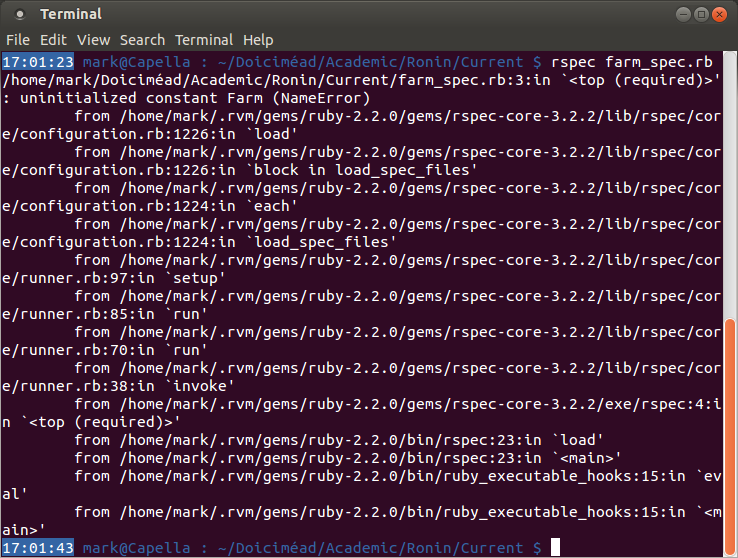
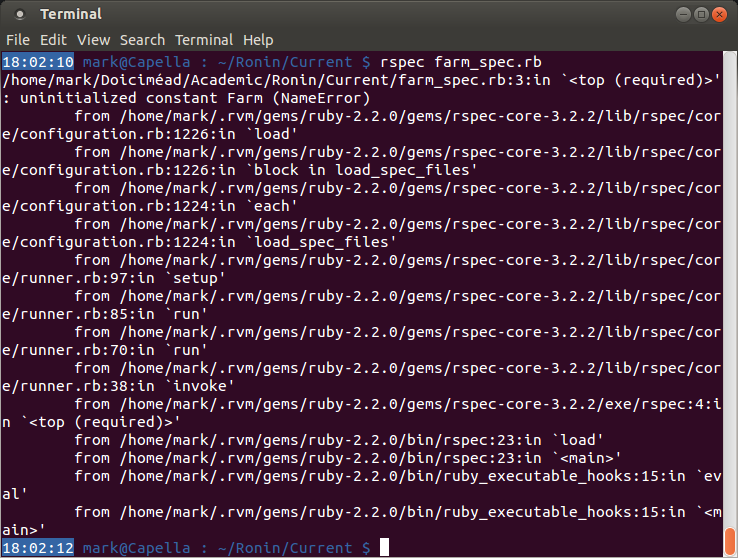
Added final test and updated screenshots to use ‘let’ instead of ‘before :all’.

diff --git a/farm/writing_tests_step7.md b/farm/writing_tests_step7.md
@@ -7,30 +7,36 @@ So we have a Farm containing Animals and Machines…or do we? At the moment all 
 
 So why `equal` instead of `eql` like before? Well, in this case we want to make sure the two Farms are _exactly_ the same object. Not identical, not mostly equivalent; _exactly_. `eql`, in most circumstances, will only test equivalency, which is usually what we want, but in this case it’s not precise enough; hence `equal`.
 
-![The Animals are stuck in the entrance gates!](../screenies/farm/farm-linkage-failed.png "The Animals are stuck in the entrance gates!")
+![The Animals are are lost!](../screenies/farm/farm-linkage-1-failed.png "The Animals are are lost!")
 
-You can fix this by adding code similar to that below to your `initialize` methods:
+```
+NameError: undefined local variable or method `farm'
+```
+
+Hmm, so what’s happened? Well, the variable `farm` has is being referenced beyond its scope. When the `end` statement associated with `describe Farm` on line 19 was reached, `farm` was destroyed as it was only created as a local variable. This is where the `before :all` statement potentially wins over `let`. There are two things we can do to fix this: rewrite all the `let` statements to `before :all` (remembering to change all references to `farm`, `animal`, etc. to `@farm`, `@animal`, and so on), or we can nest all the other class tests inside `describe Farm` and run the test suite again. The latter is much easier to do at this stage:
+
+![The Animals are stuck in the entrance gates!](../screenies/farm/farm-linkage-2-failed.png "The Animals are stuck in the entrance gates!")
+
+You can now fix this by adding code similar to that below to your `initialize` methods:
 
 ![The Animals have been freed from the entrance…](../screenies/farm/farm-linkage-ruby.png "The Animals have been freed from the entrance…")
 
 ![…and are now roaming the rich farmyard pastures](../screenies/farm/farm-linkage-passed.png "…and are now roaming the rich farmyard pastures")
 
-There is still one thing missing, however. Remember we talked about keeping track of numbers? No? You don’t remember the cow under the arm? Well, let’s test for it anyway. Remember to adjust the numbers for your own example if you’ve added extra Animals or Machines. Don’t forget to count the generic Animals/Machines you created too!
+There is still one thing missing, however. Remember we talked about keeping track of numbers? No? You don’t remember the cow under the arm? Well, let’s test for it anyway. Add in a test that creates a new object within the class you are testing (Animal inside the Animal description, Cow inside the Cow description) and ensure that it increments the correct counter by 1 (i.e. `number_of_animals` in Animal classes, and `number_of_machines` in Machine classes).
 
 ![Farmyard census](../screenies/farm/farmyard-census-rspec.png "Farmyard census")
 
 ![Census results are not promising](../screenies/farm/farmyard-census-failed.png "Census results are not promising")
 
-Oh dear:
+OK, so those tests are at least seeing some numbers, but not the right ones. Have a go at fixing that:
 
-```
-undefined method `number_of_animals' for nil:NilClass
-```
+![Farmyard census](../screenies/farm/farmyard-census-ruby.png "Farmyard census")
 
-That’s not good. Why has `@farm` suddenly disappeared? Well, by creating a new `describe Farm` block, we’ve overwritten the old `@farm` variable with nothing. So this means that we now have to put the test inside the original `describe Farm` block, but after all the other tests we’ve written. How can we do that? Simple: nest them. Nest the other class tests and then add our new test to the end (note carefully how the indenting in the next shot differs from that above):
+![Census results are promising](../screenies/farm/farmyard-census-passed.png "Census results are promising")
 
-![Farmyard census 2](../screenies/farm/farmyard-census-2-rspec.png "Farmyard census 2")
+Congratulations! You have built up a working farmyard using RSpec tests to guide you. Have a cup of tea and experiment a bit more trying out new tests and new classes or methods to run them on. Have a look at the [online resources](../online_resources.md) for some further reading.
 
-![Census results are still not promising](../screenies/farm/farmyard-census-2.png "Census results are still not promising")
+[← Machinery makes the Farm complete – Step 6](./writing_tests_step6.md)
 
-OK, so now the tests are at least seeing some numbers, but not the right ones. Have a go at fixing that.
+[From Zero to Hero with RSpec →](../README.md)

diff --git a/farm/writing_tests_step3.md b/farm/writing_tests_step3.md
@@ -5,11 +5,15 @@ Going back to Step 0 again, we mentioned that we would like to keep track of the
 
 …well, see that’s not so easy – other than the explicit instance of Farm we create to test that Farms can exist as Farms, we have no way of accessing the new Farm to test it further. We could always create a new Farm object for each test, but then we’re not testing the contents of the same Farm each time. Thus we need to tweak the test file a little first.
 
+![Introducing let](../screenies/farm/let-all.png "Introducing let")
+
+Now, instead of creating the Farm object inside the test expression, the `let` creates a single object for us before any of the tests are run. We can hand this to a variable `farm` (referenced as a symbol `:farm` in the argument to let) which can then be referenced in the tests. The test string has also been updated to reflect the changes in the test expression.
+
+You can also use `before :all` to get the same effect. Note, however, that this method will return a `nil` if the variable doesn’t exist, which can happen if the variable is mistyped in the RSpec file. Using `let` ensures that these errors are caught with `NoNameError` instead. However, the advantage to `before :all` is that it creates an instance variable that you can then reference from outside the test block.
+
 ![Introducing before :all](../screenies/farm/before-all.png "Introducing before :all")
 
-Now, instead of creating the Farm object inside the test expression, the `before :all` creates a single object for us before any of the tests are run. We can hand this to a variable `@farm` which can then be referenced in the tests. The test string has also been updated to reflect the changes in the test expression.
-
-Had we wanted to create a new Farm object for each test, we could’ve used `before :each` instead of `before :all`.
+Had we wanted to create a new Farm object for each test, we could’ve used `let!(:symbol)` or `before :each` instead of `let(:symbol)` or `before :all`.
 
 Now that we have a reference to a Farm object, we can write tests to check the number of animals and machines on that Farm:
 

diff --git a/farm/writing_tests_step5.md b/farm/writing_tests_step5.md
@@ -7,7 +7,7 @@ Before I go on to show you the output of these new tests, let’s stop to discus
 
 ```ruby
 it "is an instance of Animal" do
-  expect(@cow).to be_an(Animal)
+  expect(cow).to be_an(Animal)
 end
 ```
 
@@ -15,7 +15,7 @@ This is checking to see that the Cow class extends Animal so that it inherits al
 
 ```ruby
 it "knows it is food" do
-  expect(@cow).to be_food
+  expect(cow).to be_food
 end
 ```
 
@@ -23,7 +23,7 @@ Remember how in Step 2½ (and, in fact, immediately above!) I converted the Ruby
 
 ```ruby
 it "knows it is food" do
-  expect(@cow.food?).to be
+  expect(cow.food?).to be
 end
 ```
 
@@ -31,13 +31,13 @@ or even:
 
 ```ruby
 it "knows it is food" do
-  expect(@cow.food?).to eq true
+  expect(cow.food?).to eq true
 end
 ```
 
 It is worth noting that in addition to the ‘be’ change, there is also a change from ‘has’ to ‘have’; for example the `has_item?` Ruby method becomes `have_item` RSpec test. Relish RSpec has more information on this concept in their [predicate matchers](https://www.relishapp.com/rspec/rspec-expectations/v/3-2/docs/built-in-matchers/predicate-matchers) page.
 
-One further thing to note is that where brackets are optional in Ruby, they are also optional in RSpec. I could easily have written `expect(@cow.products).to include("Milk")` on line 65, for example.
+One further thing to note is that where brackets are optional in Ruby, they are also optional in RSpec. I could easily have written `expect(cow.products).to include("Milk")` on line 65, for example.
 
 After creating a basic, empty Cow class in the `farm.rb` file, the results gained are:
 
